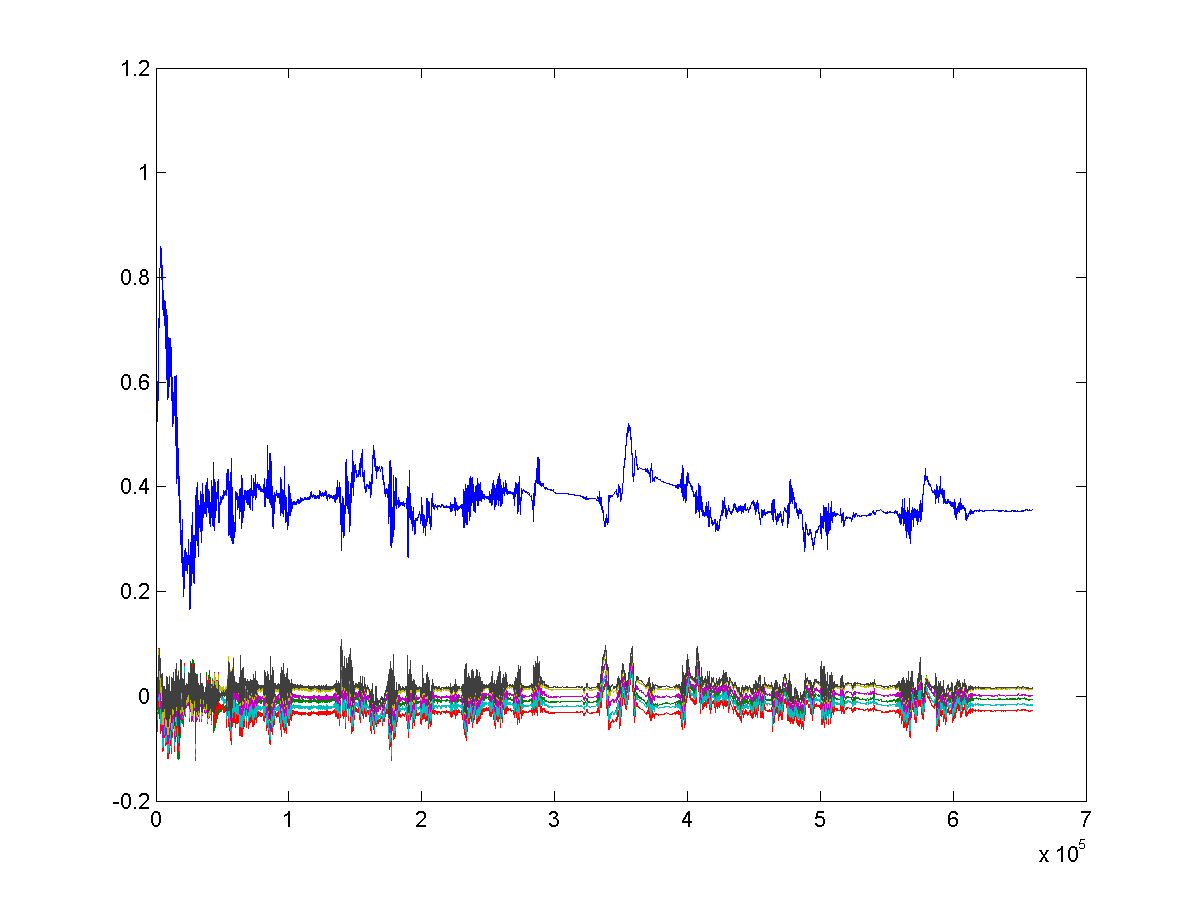
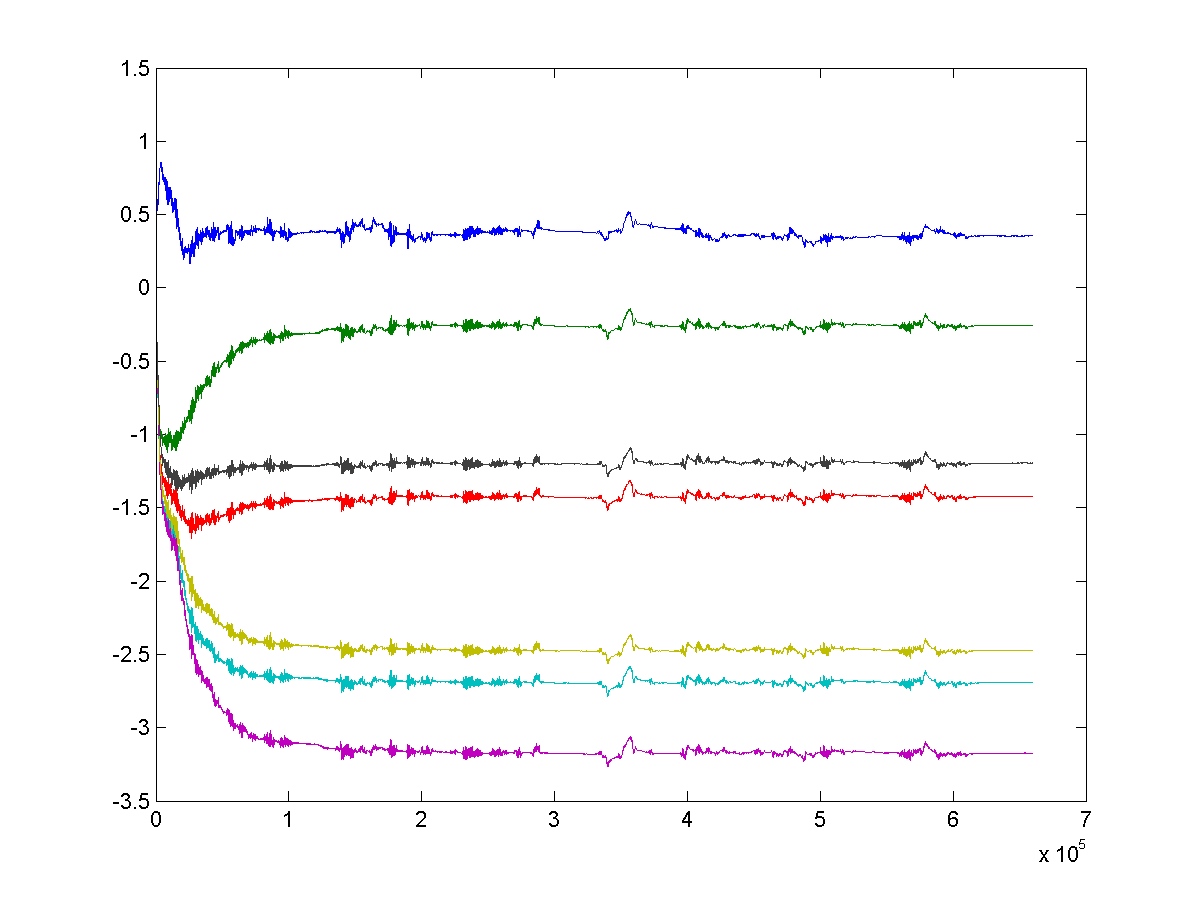
fix probes problem

diff --git a/proj_anc/model/src/ANC_Model.m b/proj_anc/model/src/ANC_Model.m
@@ -2,15 +2,24 @@ close all
 clear
 clc
 
-master_cfg_1;
+master_cfg_nrefls6_rmax1_mu0001_fltord150;
 
-n_samps = min(100000,numel(ui_data));
+% ui_data = randi([-1,1],50000,1);                                  % for random noise testing
+% ui_fs = 20000;
+
+[ui_data,ui_fs] = audioread(strcat(getenv('PROJ_ANC'), '\model\stimulus\', ui_filename));  % reading .wav file as undesired sound
+ui_data = ui_data(:,1);
+[di_data,di_fs] = audioread(strcat(getenv('PROJ_ANC'), '\model\stimulus\', di_filename));  % reading .wav file as desired sound
+di_data = di_data(:,1);
+n_samps = min(660000,numel(ui_data));  
+
 ls_model = ANC_Filter(ls_coeffs);                                       % instantiates a new filter as ls_model
 hs_model = ANC_Filter(hs_coeffs);                                       % instantiates a new filter as hs_model
 mic_model = ANC_Filter(mic_coeffs);
 ra_coeffs = room_acoustics_to_coeffs(Qi, ri, ui_fs);
 ra_model = ANC_Filter(ra_coeffs);                                       % instantiates a new filter as ra_model
 canceller = ANC_Canceller(canc_filter_order, canc_mu, probes_list, n_samps, mic_coeffs, hs_coeffs);
+
 e = zeros(size(ui_data));
 err = zeros(size(ui_data));
 x__ = zeros(size(ui_data));                                             % initialize each element in the system to an
@@ -19,6 +28,7 @@ y = zeros(size(ui_data));                                               % set to
 c = zeros(size(ui_data));
 d = zeros(size(ui_data));
 e_ = zeros(size(ui_data));
+
 for n=1:n_samps
     x__(n) = ls_model.new_sample(ui_data(n));
     x_(n) = ra_model.new_sample(x__(n));
@@ -36,38 +46,43 @@ end
 
 sse = conv(ones(100,1)/100,err.^2);
 
-% audiowrite('output_e.wav',ui_data,ui_fs);
+audiowrite('output_e.wav',e,ui_fs);                     
 
-subplot (4,2,1)
+a = subplot (4,2,1);
 plot(ui_data)
 title('ui_data')
 
-subplot (4,2,2)
+subplot (4,2,2);
 plot(e)
 title('e')
 
-subplot (4,2,3)
+subplot (4,2,3);
 plot(sse)
 title('sse')
 
-subplot (4,2,4)
+subplot (4,2,4);
 plot(x_)
 title('x_')
 
-subplot (4,2,5)
+subplot (4,2,5);
 plot(y)
 title('y')
 
-subplot (4,2,6)
+subplot (4,2,6);
 plot(c)
 title('c')
 
-subplot (4,2,7)
+subplot (4,2,7);
 plot(d)
 title('d')
 
-subplot (4,2,8)
+subplot (4,2,8);
 plot(e_)
 title('e_')
+
+saveas(a, 'varietygraph.png')
+
+plot_probes(canceller);
+
 
 

diff --git a/proj_anc/model/src/room_acoustics_to_coeffs.m b/proj_anc/model/src/room_acoustics_to_coeffs.m
@@ -1,13 +1,13 @@
-function ra_coeffs = room_acoustics_to_coeffs(Qi, ri, ui_fs)
+function dummy = room_acoustics_to_coeffs(Qi, ri, ui_fs)
 T = 1/ui_fs;                                   % sampling period
 c = 345;                                       % speed of sound at 20 degrees Celsius
-if isequal((size(Qi)),(size(ri)))
+if isequal((numel(Qi)),(numel(ri)))
     di = ri/c;                                 % d is delays in seconds
     ni = round(di/T);                          % discrete time index corresponding to the ith reflection
     max_ni = max(ni);                          % define maximum source distance
-    ra_coeffs = zeros(1,(max_ni+2));           % init storage             
-    for i = 1:size(Qi)
-        ra_coeffs(ni(i))= Qi(i)/ri(i);         % fill in non-zero values
+    dummy = zeros(1,(max_ni+2));               % init storage             
+    for i = 1:numel(Qi)
+        dummy(ni(i))= Qi(i)/ri(i);             % fill in non-zero values
     end
 else
     disp('Error: Size of source distance array is not the same length as image source strength array');

diff --git a/proj_anc/model/cfg/canceller_cfg_mu01_fltord150.m b/proj_anc/model/cfg/canceller_cfg_mu01_fltord150.m
@@ -1,4 +1,4 @@
-canc_mu = 0.1;                        % large enough to get divergence, but small enough to get too slow to converge
+canc_mu = 0.1;                               % large enough to get divergence, but small enough to get too slow to converge
 canc_filter_order = 150; 
-probes_list = [1, 27, 28, 29, 30, 31, 32];
+probes_list = [1, 13, 26, 38, 51, 102, 128];
 

diff --git a/proj_anc/model/cfg/canceller_cfg_mu00001_fltord150.m b/proj_anc/model/cfg/canceller_cfg_mu00001_fltord150.m
@@ -1,4 +1,4 @@
 canc_mu = 0.0001;                        % large enough to get divergence, but small enough to get too slow to converge
 canc_filter_order = 150; 
-probes_list = [1, 27, 28, 29, 30, 31, 32];
+probes_list = [1, 13, 26, 38, 51, 102, 128];
 

diff --git a/proj_anc/model/cfg/canceller_cfg_mu0001_fltord150.m b/proj_anc/model/cfg/canceller_cfg_mu0001_fltord150.m
@@ -1,4 +1,4 @@
 canc_mu = 0.001;                        % large enough to get divergence, but small enough to get too slow to converge
 canc_filter_order = 150; 
-probes_list = [1, 27, 28, 29, 30, 31, 32];
+probes_list = [1, 13, 26, 38, 51, 102, 128];
 

diff --git a/proj_anc/model/cfg/canceller_cfg_mu001_fltord150.m b/proj_anc/model/cfg/canceller_cfg_mu001_fltord150.m
@@ -1,4 +1,4 @@
 canc_mu = 0.01;                        % large enough to get divergence, but small enough to get too slow to converge
 canc_filter_order = 150; 
-probes_list = [1, 27, 28, 29, 30, 31, 32];
+probes_list = [1, 13, 26, 38, 51, 102, 128];
 

diff --git a/proj_anc/exp/nrefls6_rmax1_mu0.1_fltord150_15sec/canceller_cfg_mu01_fltord150.m b/proj_anc/exp/nrefls6_rmax1_mu0.1_fltord150_15sec/canceller_cfg_mu01_fltord150.m
@@ -1,4 +1,4 @@
 canc_mu = 0.1;                        % large enough to get divergence, but small enough to get too slow to converge
 canc_filter_order = 150; 
-probes_list = [1, 27, 28, 29, 30, 31, 32];
+probes_list = [1, 10, 11, 12, 13, 14, 15];
 

diff --git a/proj_anc/model/cfg/canceller_cfg_mu1_fltord150.m b/proj_anc/model/cfg/canceller_cfg_mu1_fltord150.m
@@ -1,4 +1,3 @@
 canc_mu = 1;                        % large enough to get divergence, but small enough to get too slow to converge
 canc_filter_order = 150; 
-probes_list = [1, 27, 28, 29, 30, 31, 32];
-
+probes_list = [1, 13, 26, 38, 51, 102, 128];
